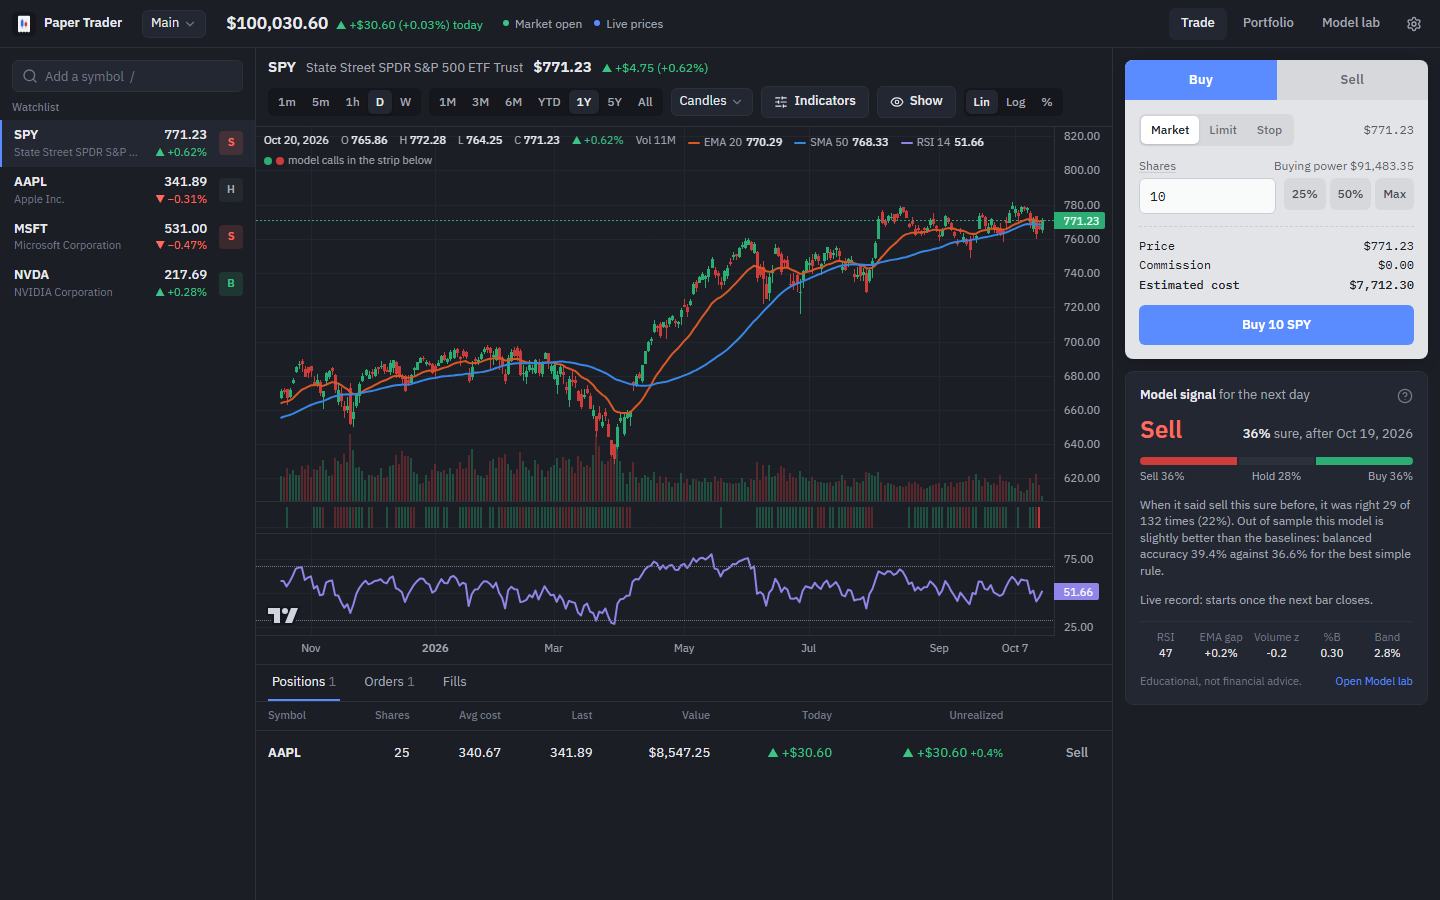
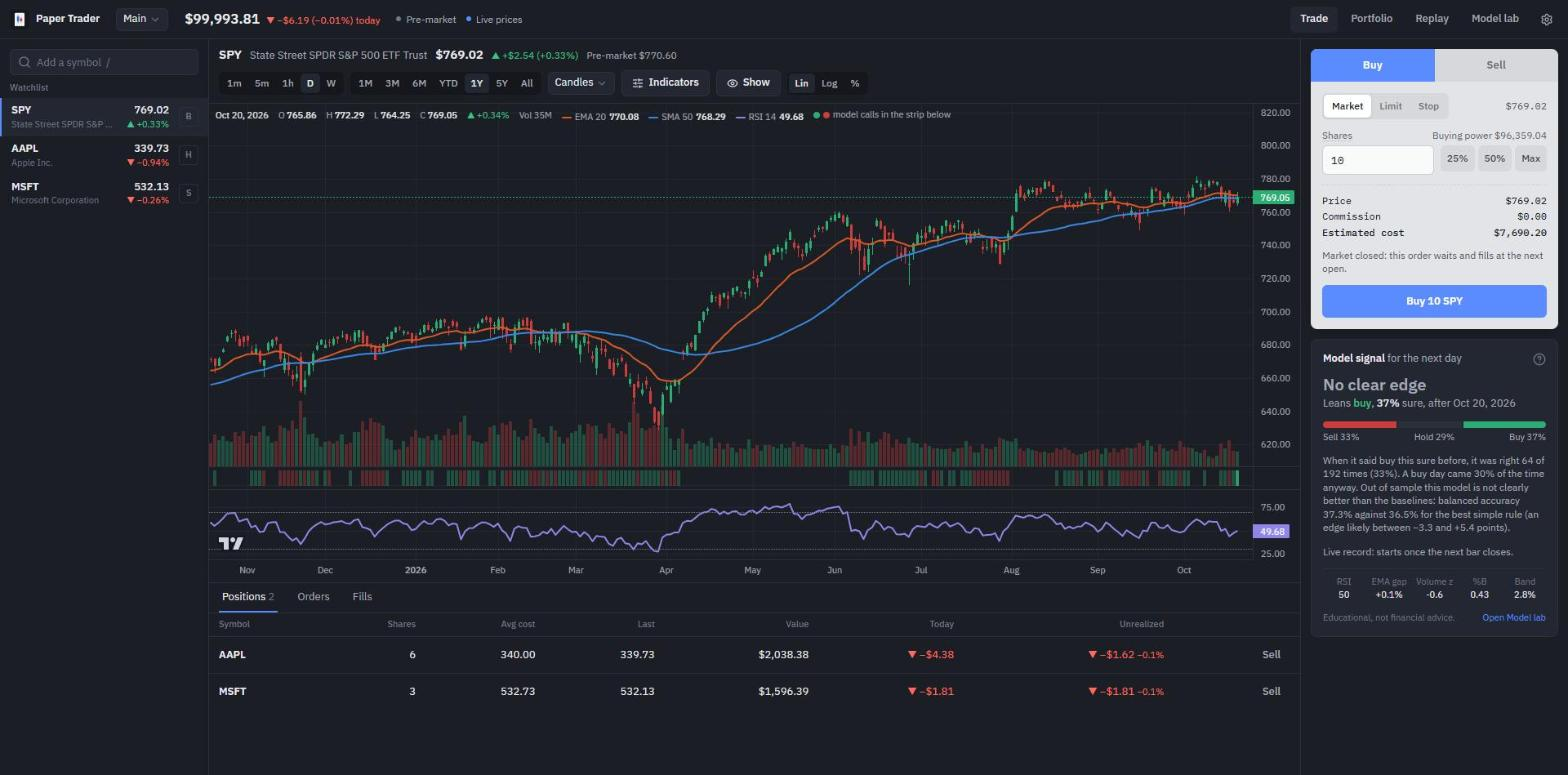
readme: report card, replay, the edge range, what leaves your computer, new screenshot

diff --git a/README.md b/README.md
@@ -15,7 +15,8 @@ Good to know:
 - The installer isn't signed, so Windows may say "Windows protected your PC". Choose **More info > Run anyway**.
 - The window is drawn by Microsoft Edge WebView2, which comes with Windows 10 and 11.
 - The first start after installing takes longer (Windows checks the new files); after that it opens in about two seconds.
-- Your data is kept in `%LOCALAPPDATA%\PaperTrader`. Uninstalling (Windows Settings > Apps) leaves it there, so a reinstall keeps your portfolios.
+- Your data is kept in `%LOCALAPPDATA%\PaperTrader`. Uninstalling (Windows Settings > Apps) leaves it there, so a reinstall keeps your portfolios, and a newer version upgrades the data in place.
+- When a new version is out, the top bar links to it. The check is one request to GitHub per start, and it can be switched off in Settings.
 
 ## What you can do
 
@@ -32,7 +33,10 @@ Good to know:
   - Your fills, your average cost and your open orders, drawn on the chart.
   - Every choice is remembered.
 - **Portfolios:** several of them. A reset keeps the old one as a read-only record. Positions show live profit and loss, the equity curve is compared with SPY, and the trade ledger can be paged, filtered and exported to CSV.
+- **Report card:** the honest test the model gets, applied to you: how many sales made money, average win and loss, your biggest drop, what commission and slippage cost you, how often you were in the market, and how SPY and SPY's model did over the same days.
+- **Replay:** trade a symbol's past one day at a time, seeing only the days up to the replay's date. A year takes an afternoon instead of a year, and the report card compares you with buying and holding and with the model's out-of-sample calls for the same days.
 - **Model lab:** change how the model works and test it the honest way, then pick which test drives the live signal.
+- **Stock splits:** held shares, open orders and the model's record move to the new share count. A reverse split that leaves part of a share pays that part out in cash.
 - **Look:** dark or light, or follow Windows. Up and down colours can be green/red, red/green, or blue/orange for colour-blind eyes. Direction always comes with an arrow and a sign as well.
 
 ## How the model is tested, and what it shows
@@ -52,15 +56,19 @@ It is never tested on a random split, because that would let the future leak int
 
 **Live record.** The signal you see for each day is stored before the outcome is known, so the live record can't be rewritten by retraining.
 
-On five years of SPY (October 2026), the honest answer was:
+**Could it be luck?** The edge over the best simple rule gets a likely range, from resampling the tested days in blocks of 20 (neighbouring days move together, so single days would overstate the evidence). Every Model lab run on the same data is another chance to look good by luck, so the range widens with each one. The verdict follows the range: better only when the whole range is above zero.
+
+**Is this call worth anything?** A signal only shows as Buy or Sell when calls like it, at that confidence and out of sample, were right clearly more often than that kind of day happens anyway. Otherwise the card says **No clear edge** and shows which way the model leans.
+
+On five years of SPY (21 October 2026), the honest answer was:
 
 | | Balanced accuracy | Return over the tested years |
 |---|---|---|
-| Random forest | 39.4% | +14.3% |
-| Best simple rule | 36.6% | |
-| Buy and hold | | +108.3% |
+| Random forest | 37.3% | -1.3% |
+| Best simple rule | 36.5% | |
+| Buy and hold | | +111.1% |
 
-The forest was slightly better than the simple rules at calling direction, but following it earned far less than buying and holding. Gradient boosting showed no edge at all and memorised its training data. The app shows these numbers next to every signal. It is for learning, not for trading real money.
+That's an edge of +0.8 points, likely between -3.3 and +5.4: not clearly better than the simple rules, and following it earned far less than buying and holding. A day earlier, the same test had said 39.4% and +14.3%. Small edges like this move with one more day of data, which is why the app shows the range. Gradient boosting showed no edge at all and memorised its training data. It is for learning, not for trading real money.
 
 ## Run from source
 
@@ -99,12 +107,14 @@ The API is documented at http://127.0.0.1:8000/docs.
 | `papertrader/market.py` | Yahoo Finance history in SQLite, symbol checks, New York trading hours |
 | `papertrader/features.py` | RSI, EMA spread, volume z-score, Bollinger, MACD, labels; the feature store |
 | `papertrader/model.py` | Walk-forward validation, baselines, backtest, live signals |
-| `papertrader/worker.py` | Live price stream, order matching on every tick, catch-up after gaps |
+| `papertrader/worker.py` | Live price stream, order matching on its own thread, catch-up after gaps, split checks |
+| `papertrader/replay.py` | Replays: a portfolio with its own clock, stepped through history a day at a time |
+| `papertrader/updates.py` | The optional check for a newer release |
 | `papertrader/api.py` | FastAPI routes and the WebSocket for live updates |
 | `papertrader/desktop.py` | The desktop window around the API |
-| `papertrader/schema.sql` | The database |
+| `papertrader/schema.sql`, `papertrader/db.py` | The database, and the numbered upgrade steps that keep installed copies' data |
 | `ui/` | The React app (Vite, TypeScript, Tailwind, Lightweight Charts) |
-| `tests/` | pytest suite (ledger, market data, features, model, API) |
+| `tests/` | pytest suite (ledger, market data, features, model, replay, API) |
 | `PaperTrader.spec`, `installer.iss`, `build.ps1` | The Windows build |
 | `scripts/make_icon.py` | Draws `assets/icon.ico` |
 
@@ -115,14 +125,18 @@ The API is documented at http://127.0.0.1:8000/docs.
 - The `trades` table is the audit log. Database triggers refuse any change or deletion.
 - A position keeps its total cost, not a rounded average, so selling part of it never leaves a few cents behind.
 - Bars are split-adjusted, as brokers chart them, and are downloaded again when stale, because Yahoo re-adjusts old bars after a split. Only complete bars are stored.
+- Splits are kept with the day they took effect, so old fills and old signals can be put on today's share count.
+- A newer version upgrades the database one numbered step at a time, so an installed copy keeps its data.
+- When Yahoo Finance stops answering, a banner says so. Waiting orders stay in place and fill once prices come back.
 
 ## Safety
 
 - **Only this computer can reach the app.** Its server answers on 127.0.0.1 only, on a new port each start.
 - **Websites can't get in through a trick domain.** A website you visit can't reach it by pointing its own domain at your computer: requests addressed to any other host are refused.
-- **Websites can't place orders.** Orders are only accepted as JSON, which browsers don't send across sites without permission, and the app gives none.
+- **Websites can't place orders or change anything.** Orders are only accepted as JSON, which browsers don't send across sites without permission, and the app gives none. Any request that changes something is also refused when it comes from another site's page.
 - **Websites can't listen to the live updates.** The live-update connection checks which page opened it.
 - **Nothing to steal.** There are no passwords, keys or real money in the app, and trained models are never saved as files that could run code when loaded.
+- **What leaves your computer:** requests to Yahoo Finance for prices, and, unless you switch it off, one request to GitHub per start to look for a new version. Neither carries anything about you or your trades.
 
 ## Tests
 
@@ -136,5 +150,9 @@ npm test
 
 - Prices come from Yahoo Finance through [yfinance](https://github.com/ranaroussi/yfinance). Yahoo allows this for personal use, and quotes can be late or missing. The data is never stored in this repository.
 - Charts are drawn with [TradingView Lightweight Charts](https://www.tradingview.com/lightweight-charts/)&trade;, &copy; TradingView, Inc., under the Apache License 2.0.
+
+## License
+
+MIT, see [LICENSE](LICENSE). What changed in each version is in [CHANGELOG.md](CHANGELOG.md).
 
 Educational software. Not financial advice.
